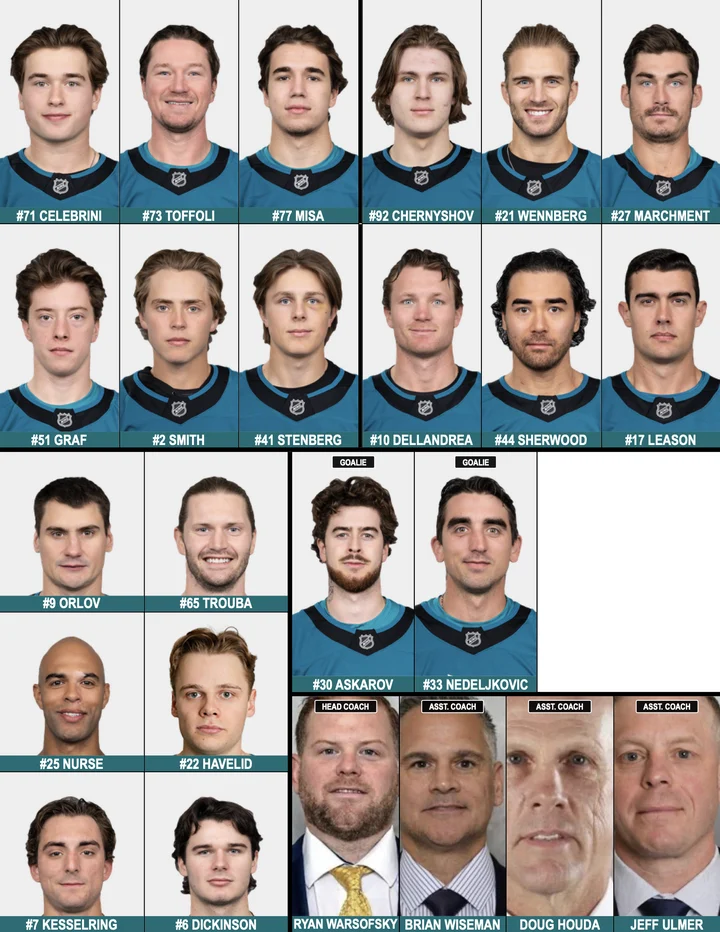
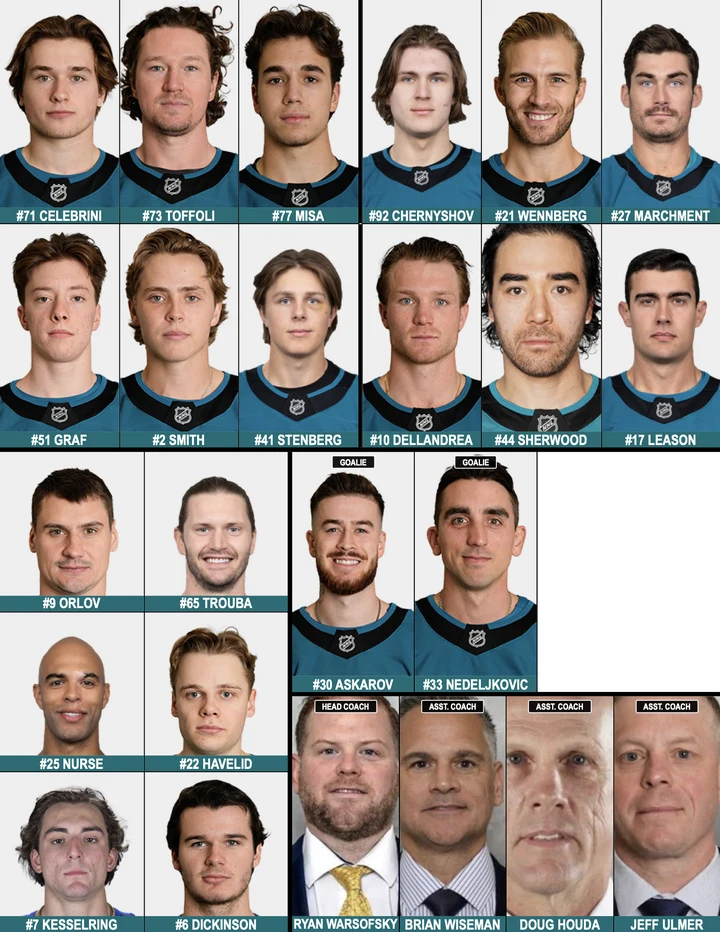
Use real last-season NHL headshots where possible; prominent NHL/MLB switch
- The NHL's 2026-27 headshots (served at mugs/nhl/latest) are heavily smoothed and look
  artificial. For players who were on the same team last season, use last season's
  photo instead (checked against last season's roster and cached); everyone else keeps
  the new photo, the only one in his current jersey.
- Replace the small NHL/MLB tabs in the corner with a large switch with league logos
  above the title on both landing pages.
- Re-render the NHL sample sheet with the real photos.

diff --git a/static/site.css b/static/site.css
@@ -35,6 +35,16 @@ img { display: block; }
 .sport-tab:hover { color: #fff; }
 .sport-tab.on { background: #fff; color: #0e1013; }
 
+/* ---------- NHL / MLB switch ---------- */
+.league-switch { display: inline-flex; background: #fff; border: 1px solid var(--line); border-radius: 14px; padding: 5px; gap: 4px; margin-bottom: 22px; box-shadow: 0 1px 2px rgba(0,0,0,.04); }
+.league-switch a { display: flex; align-items: center; gap: 12px; padding: 10px 26px 10px 16px; border-radius: 10px; text-decoration: none; color: var(--ink-2); transition: background .12s, color .12s; }
+.league-switch a img { width: 34px; height: 34px; object-fit: contain; }
+.league-switch a .l-name { font-family: var(--display); font-weight: 800; font-size: 26px; line-height: 1; letter-spacing: .02em; }
+.league-switch a .l-sub { display: block; font-size: 12px; color: var(--muted); margin-top: 2px; }
+.league-switch a:hover { background: var(--paper); color: var(--ink); }
+.league-switch a.on { background: #0e1013; color: #fff; }
+.league-switch a.on .l-sub { color: rgba(255,255,255,.65); }
+
 /* ---------- Page ---------- */
 .page { max-width: 1180px; margin: 0 auto; padding: 36px 20px 64px; }
 .hero { margin-bottom: 28px; max-width: 720px; }
@@ -190,6 +200,11 @@ kbd { font-family: var(--body); font-size: 12px; border: 1px solid var(--line-2)
     .topbar-inner { padding: 0 14px; gap: 12px; }
     .wordmark { font-size: 19px; }
     .sport-tab { padding: 5px 12px; font-size: 16px; }
+    .league-switch { display: flex; }
+    .league-switch a { flex: 1; justify-content: center; padding: 10px 12px; gap: 8px; }
+    .league-switch a img { width: 28px; height: 28px; }
+    .league-switch a .l-name { font-size: 22px; }
+    .league-switch a .l-sub { display: none; }
     .step { padding: 18px 14px; }
     .go { padding: 16px 14px 18px; }
     .team-grid { grid-template-columns: repeat(6, 1fr); gap: 5px; }

diff --git a/templates/mlb_select.html b/templates/mlb_select.html
@@ -17,14 +17,14 @@
                 <svg class="wordmark-mark" viewBox="0 0 26 26" aria-hidden="true"><rect x="1" y="1" width="24" height="24" rx="5" fill="#fff"/><rect x="5" y="6" width="4" height="14" rx="1" fill="#0e1013"/><rect x="11" y="6" width="4" height="14" rx="1" fill="#0e1013"/><rect x="17" y="6" width="4" height="14" rx="1" fill="#0e1013"/></svg>
                 Lineup Generator
             </a>
-            <nav class="sport-tabs">
-                <a class="sport-tab" href="/">NHL</a>
-                <a class="sport-tab on" href="/mlb">MLB</a>
-            </nav>
         </div>
     </header>
 
     <main class="page">
+        <nav class="league-switch" aria-label="Choose a league">
+            <a href="/"><img src="https://assets.nhle.com/logos/nhl/svg/NHL_light.svg" alt=""><span><span class="l-name">NHL</span><span class="l-sub">Lineup sheets</span></span></a>
+            <a class="on" href="/mlb" aria-current="page"><img src="https://www.mlbstatic.com/team-logos/league-on-dark/1.svg" alt=""><span><span class="l-name">MLB</span><span class="l-sub">Headshot sheets</span></span></a>
+        </nav>
         <div class="hero">
             <h1>MLB headshot sheets</h1>
             <p>Pick a matchup and print a landscape sheet for each team: every pitcher, position player and coach.</p>

diff --git a/templates/index.html b/templates/index.html
@@ -17,14 +17,14 @@
                 <svg class="wordmark-mark" viewBox="0 0 26 26" aria-hidden="true"><rect x="1" y="1" width="24" height="24" rx="5" fill="#fff"/><rect x="5" y="6" width="4" height="14" rx="1" fill="#0e1013"/><rect x="11" y="6" width="4" height="14" rx="1" fill="#0e1013"/><rect x="17" y="6" width="4" height="14" rx="1" fill="#0e1013"/></svg>
                 Lineup Generator
             </a>
-            <nav class="sport-tabs">
-                <a class="sport-tab on" href="/">NHL</a>
-                <a class="sport-tab" href="/mlb">MLB</a>
-            </nav>
         </div>
     </header>
 
     <main class="page">
+        <nav class="league-switch" aria-label="Choose a league">
+            <a class="on" href="/" aria-current="page"><img src="https://assets.nhle.com/logos/nhl/svg/NHL_dark.svg" alt=""><span><span class="l-name">NHL</span><span class="l-sub">Lineup sheets</span></span></a>
+            <a href="/mlb"><img src="https://www.mlbstatic.com/team-logos/league-on-light/1.svg" alt=""><span><span class="l-name">MLB</span><span class="l-sub">Headshot sheets</span></span></a>
+        </nav>
         <div class="hero">
             <h1>NHL lineup sheets</h1>
             <p>Pick a team, enter tonight's lines, and print a one-page sheet with every player's face and number.</p>

diff --git a/app.py b/app.py
@@ -169,7 +169,45 @@ def fetch_nhl_roster(team):
     ROSTER_CACHE[team] = (time.time(), data)
     return data
 
-def headshot_url(player_id):
+# The NHL's 2026-27 headshots ("latest") are heavily smoothed and look artificial. When a
+# player was on the same team last season, use last season's real photo instead (same
+# jersey); otherwise fall back to "latest", the only photo showing his current team.
+def _previous_season():
+    now = datetime.now()
+    start = now.year if now.month >= 7 else now.year - 1
+    return f"{start - 1}{start}"
+
+PREV_PHOTO_CACHE = {}
+PREV_PHOTO_CACHE_SECONDS = 12 * 60 * 60
+
+def _prev_season_photo_ids(team):
+    """Player ids on this team's roster last season that have a real photo from that season."""
+    cached = PREV_PHOTO_CACHE.get(team)
+    if cached and time.time() - cached[0] < PREV_PHOTO_CACHE_SECONDS:
+        return cached[1]
+    season, ids = _previous_season(), set()
+    try:
+        data = requests.get(f"https://api-web.nhle.com/v1/roster/{team}/{season}", timeout=8).json()
+        candidates = [p['id'] for g in ['forwards', 'defensemen', 'goalies'] for p in data.get(g, [])]
+
+        def has_photo(pid):  # a missing photo redirects to the default silhouette
+            try:
+                r = requests.head(f"https://assets.nhle.com/mugs/nhl/{season}/{team}/{pid}.png", timeout=5, allow_redirects=False)
+                return r.status_code == 200
+            except Exception:
+                return False
+
+        from concurrent.futures import ThreadPoolExecutor
+        with ThreadPoolExecutor(16) as pool:
+            ids = {pid for pid, ok in zip(candidates, pool.map(has_photo, candidates)) if ok}
+    except Exception as e:
+        logger.warning(f"PREV SEASON PHOTOS | {team} | {e}")
+    PREV_PHOTO_CACHE[team] = (time.time(), ids)
+    return ids
+
+def headshot_url(player_id, team=None):
+    if team and player_id in _prev_season_photo_ids(team):
+        return f"https://assets.nhle.com/mugs/nhl/{_previous_season()}/{team}/{player_id}.png"
     return f"https://assets.nhle.com/mugs/nhl/latest/{player_id}.png"
 
 def friendly_error(e):
@@ -475,7 +513,7 @@ def api_nhl_roster(team):
         out[group] = [{
             'number': str(p['sweaterNumber']) if p.get('sweaterNumber') is not None else '',
             'first': p['firstName']['default'], 'last': p['lastName']['default'],
-            'pos': p.get('positionCode', ''), 'headshot': headshot_url(p['id']),
+            'pos': p.get('positionCode', ''), 'headshot': headshot_url(p['id'], team),
         } for p in data.get(group, [])]
     return jsonify(out)
 
@@ -564,10 +602,10 @@ def process_lineup():
         final_f, final_d = [], []
         for n in forwards_raw:
             info = roster_data_full.get(n, {'id': None, 'number': ''})
-            final_f.append({'name': n, 'number': info['number'], 'is_forward': True, 'headshot_url': f"https://assets.nhle.com/mugs/nhl/latest/{info['id']}.png" if info['id'] else None})
+            final_f.append({'name': n, 'number': info['number'], 'is_forward': True, 'headshot_url': headshot_url(info['id'], team) if info['id'] else None})
         for n in defense_raw:
             info = roster_data_full.get(n, {'id': None, 'number': ''})
-            final_d.append({'name': n, 'number': info['number'], 'is_forward': False, 'headshot_url': f"https://assets.nhle.com/mugs/nhl/latest/{info['id']}.png" if info['id'] else None})
+            final_d.append({'name': n, 'number': info['number'], 'is_forward': False, 'headshot_url': headshot_url(info['id'], team) if info['id'] else None})
 
         elapsed = round(time.time() - start, 2)
         matched_f = sum(1 for p in final_f if 'PLAYER' not in p['name'])
@@ -575,7 +613,7 @@ def process_lineup():
         logger.info(f"NHL PROCESS OK | team: {team} | method: {method} | {elapsed}s | matched: {matched_f}F+{matched_d}D of {len(final_f)}F+{len(final_d)}D")
         activity.record('nhl_screenshot', team, True, elapsed,
                         f"{matched_f + matched_d}/{len(final_f) + len(final_d)} players matched · {'one' if method == 'combined' else 'two'} screenshot{'s' if method != 'combined' else ''}")
-        return jsonify({'forwards': final_f, 'defensemen': final_d, 'goalies': [{'name': g['name'], 'headshot_url': f"https://assets.nhle.com/mugs/nhl/latest/{g['id']}.png"} for g in goalies[:2]], 'coaches': get_coaches_from_nhl(team), 'team': team,
+        return jsonify({'forwards': final_f, 'defensemen': final_d, 'goalies': [{'name': g['name'], 'headshot_url': headshot_url(g['id'], team)} for g in goalies[:2]], 'coaches': get_coaches_from_nhl(team), 'team': team,
                         'matched': matched_f + matched_d, 'total': len(final_f) + len(final_d)})
     except Exception as e:
         elapsed = round(time.time() - start, 2)
@@ -628,7 +666,7 @@ def process_numbers():
             name = f"{p['firstName']['default']} {p['lastName']['default']}".upper()
             scr_name = ref_roster.get(n, {}).get('name', '')
             return {'name': scr_name if scr_name and not scr_name.isdigit() else name, 'number': n,
-                    'is_forward': is_forward, 'headshot_url': headshot_url(p['id'])}
+                    'is_forward': is_forward, 'headshot_url': headshot_url(p['id'], team)}
 
         f_out = [card(n, i + 1, True) for i, n in enumerate(f_nums)]
         d_out = [card(n, i + 13, False) for i, n in enumerate(d_nums)]
@@ -644,7 +682,7 @@ def process_numbers():
         activity.record('nhl_numbers', team, True, elapsed, f"{filled} players from jersey numbers")
         return jsonify({
             'forwards': f_out, 'defensemen': d_out,
-            'goalies': [{'name': goalie_label(p), 'headshot_url': headshot_url(p['id'])} for p in goalies[:2]],
+            'goalies': [{'name': goalie_label(p), 'headshot_url': headshot_url(p['id'], team)} for p in goalies[:2]],
             'coaches': get_coaches_from_nhl(team), 'team': team, 'matched': filled, 'total': len(f_out) + len(d_out)
         })
     except Exception as e:
